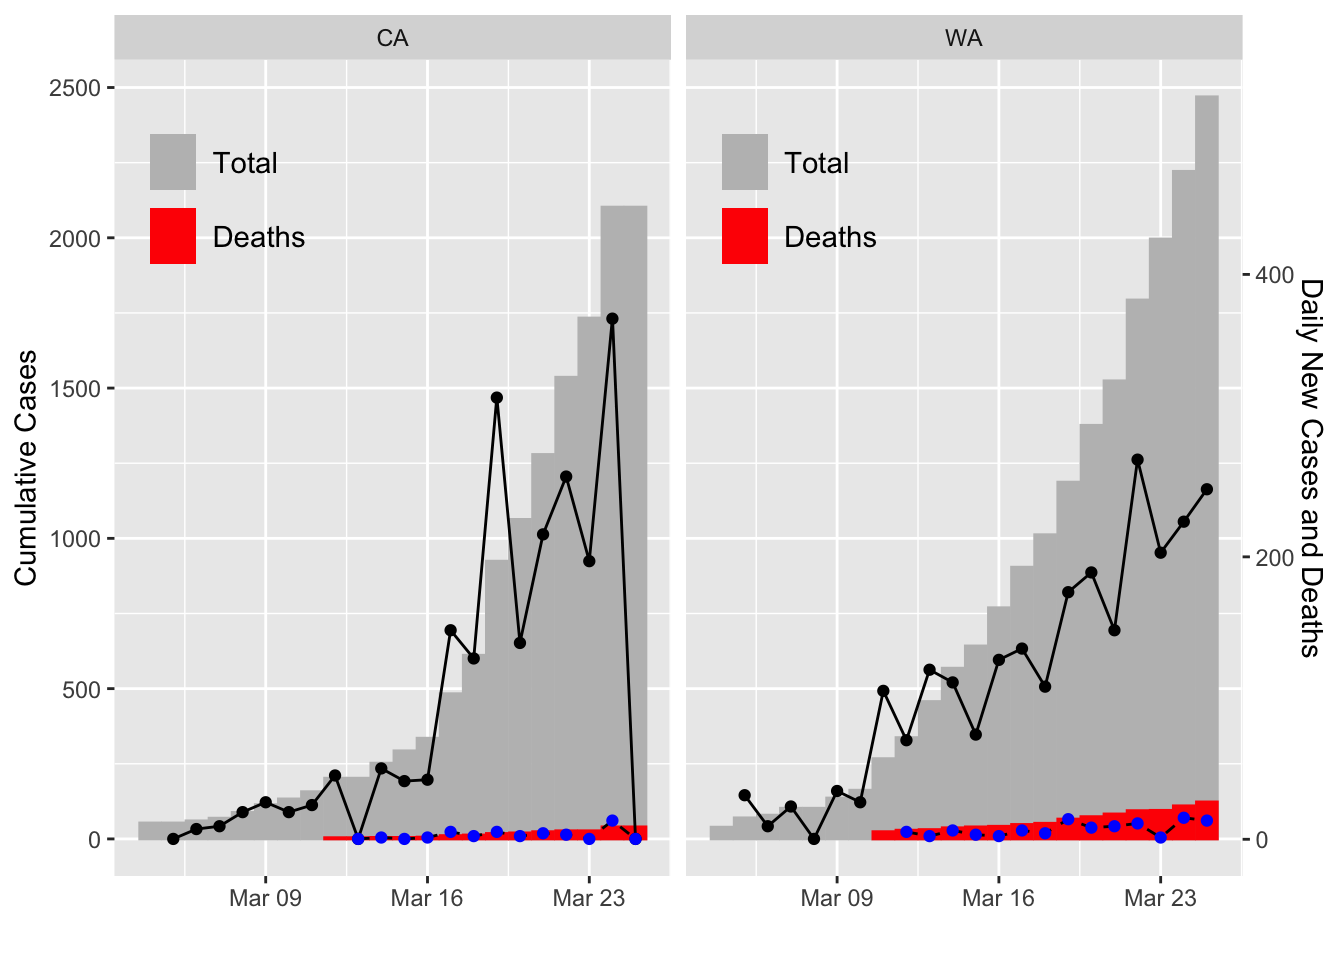
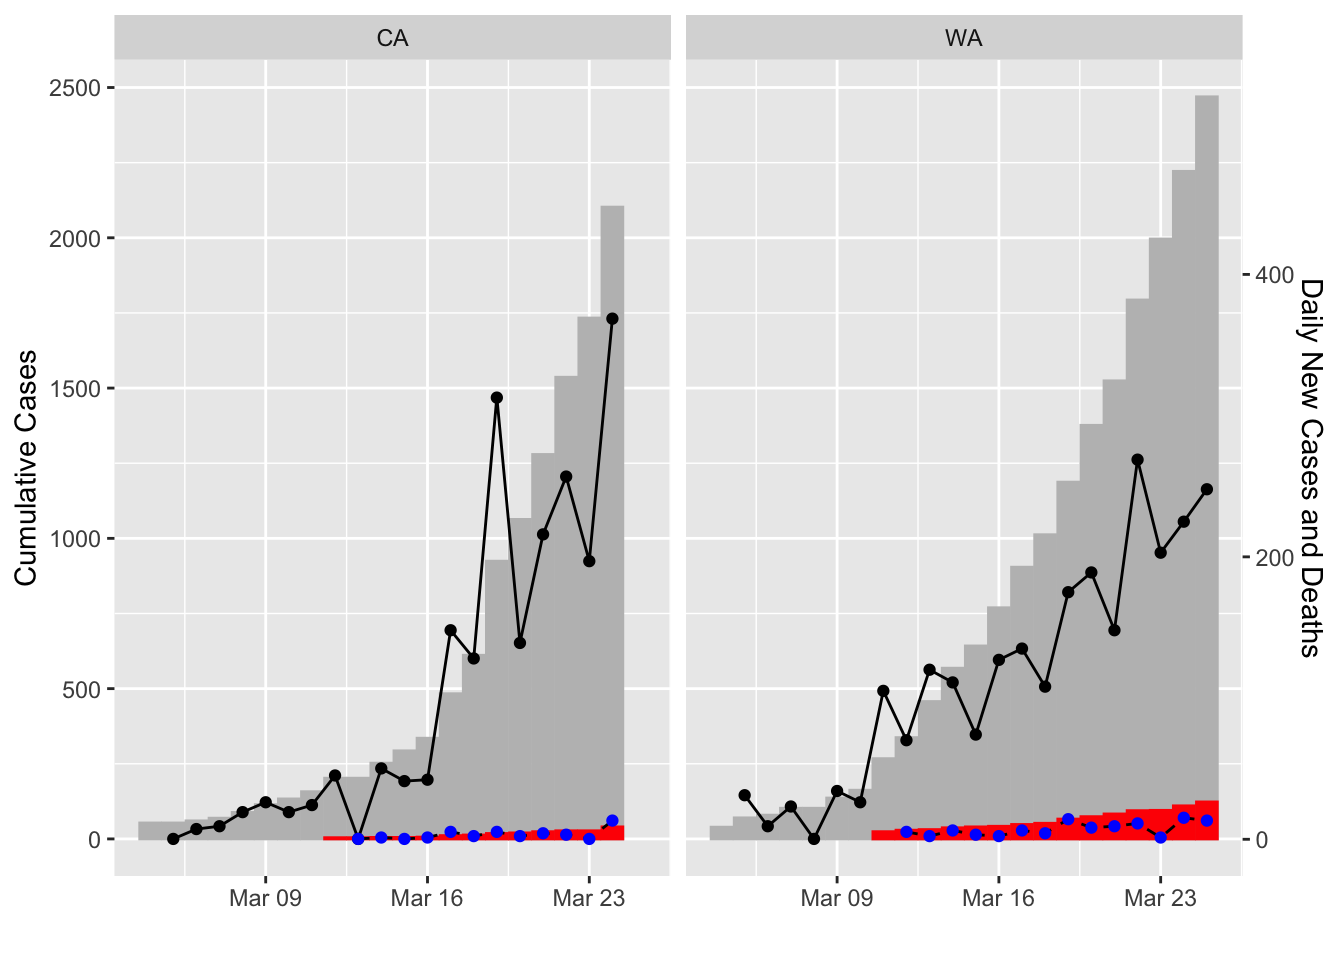
fix states with no update looking like 0 new cases

Changed region(s): [[0.4375, 0.2188, 0.5, 0.875], [0.0938, 0.125, 0.2188, 0.2812], [0.5312, 0.125, 0.6562, 0.2812]]

diff --git a/docs/data.html b/docs/data.html
@@ -330,14 +330,14 @@ world</code></pre>
 ## 3 2020-03-25     AR      280     1437       0           22     2
 ## 4 2020-03-25     AS        0       NA      NA           NA     0
 ## 5 2020-03-25     AZ      450      323      53            8     6
-## 6 2020-03-25     CA     2102    13452   12100           NA    40
+## 6 2020-03-25     CA       NA       NA      NA           NA    NA
 ##   total.tests totalTestResults deathIncrease hospitalizedIncrease
 ## 1        1691             1691             1                    1
 ## 2        2812             2812             0                    0
 ## 3        1717             1717             2                    0
 ## 4           0                0             0                    0
 ## 5         826              773             1                    0
-## 6       27654            15554             0                    0
+## 6          NA            15554             0                    0
 ##   negativeIncrease positiveIncrease totalTestResultsIncrease
 ## 1              663                6                      669
 ## 2              423               68                      491
